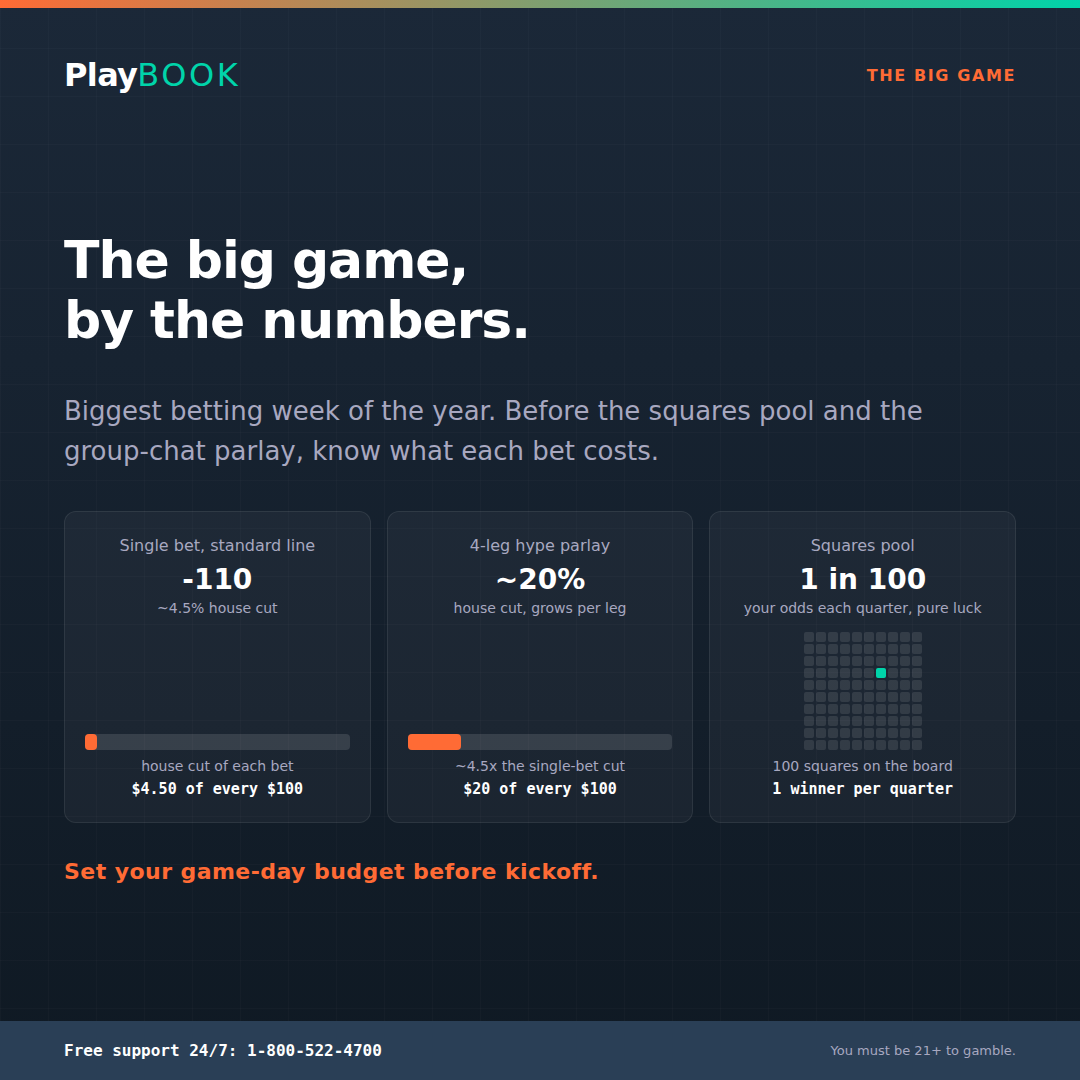
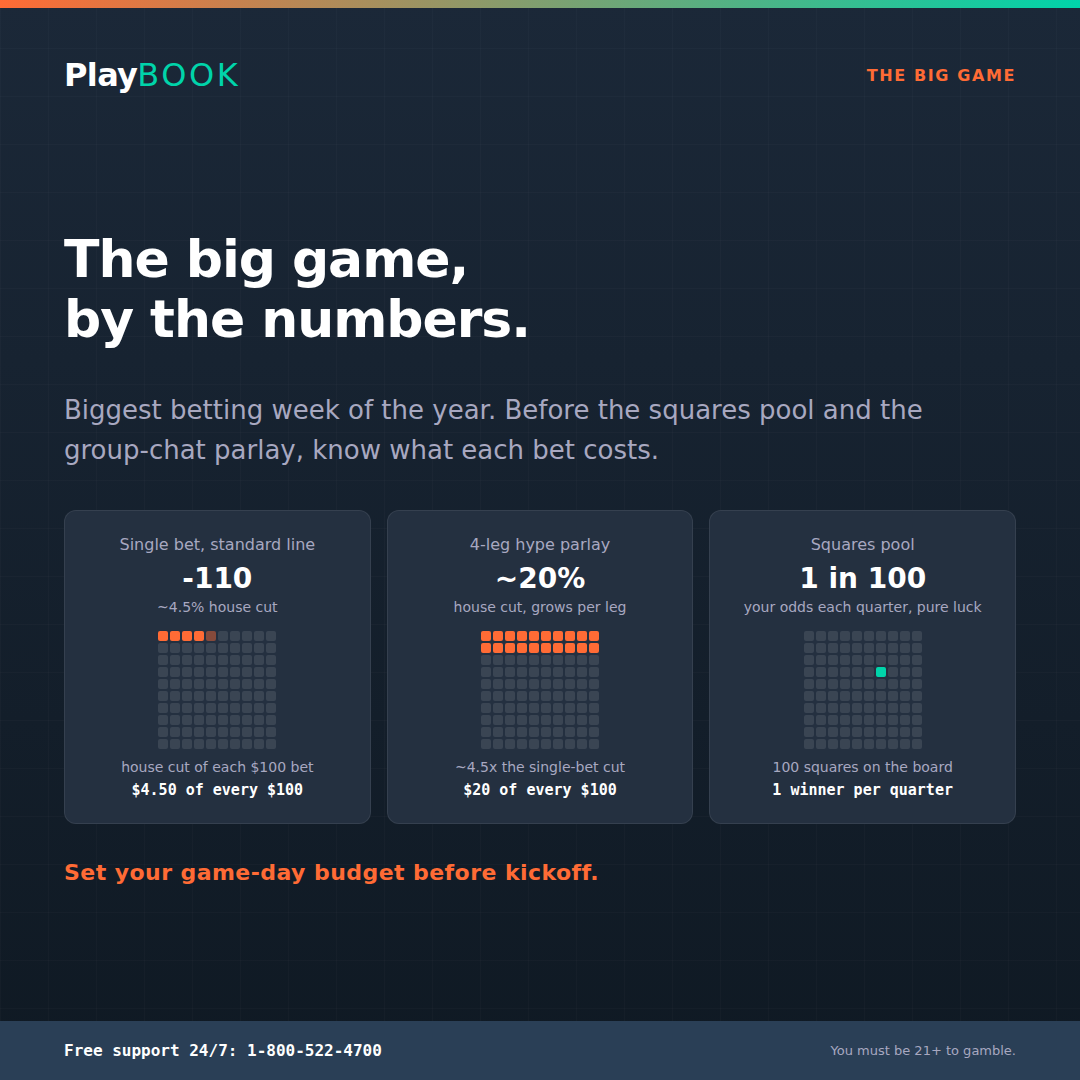
Apply loop-8 fixes: unified grid metaphor on big-game tiles
- card-17a: the two house-cut bars replaced with the same 10x10 grid
  used by the squares tile (a $100 bet = 100 squares: 4.5 orange, 20
  orange, 1 teal winner) - equalizes tile density and makes the
  three-way comparison instant; half-cut square encodes the $0.50
- card-17a / card-18a: stat tiles now use the opaque panel surface so
  the background texture no longer shows through
- story-16c: compliance text centered in the visible strip of the
  footer band above the story-UI safe zone

https://claude.ai/code/session_0185SkMKwokbUUM3N32zgs77

diff --git a/collateral/render/card-17a-big-game.html b/collateral/render/card-17a-big-game.html
@@ -25,18 +25,19 @@
   .explanation { font-family: var(--pb-font-body); font-size: calc(26px * var(--pb-template-text-scale, 1)); line-height: 1.55; color: var(--pb-color-neutral-300); margin-bottom: 32px; }
   .emphasis { font-family: var(--pb-font-heading); font-size: calc(22px * var(--pb-template-text-scale, 1)); font-weight: 700; color: var(--pb-color-accent); letter-spacing: 0.02em; margin-top: 36px; }
   .vig-strip { margin-top: 8px; display: flex; gap: 16px; }
-  .vig-card { flex: 1; background: rgba(255,255,255,0.04); border: 1px solid rgba(255,255,255,0.08); border-radius: 12px; padding: 24px 20px; text-align: center; display: flex; flex-direction: column; }
+  .vig-card { flex: 1; background: linear-gradient(rgba(255,255,255,0.04), rgba(255,255,255,0.04)), var(--pb-color-primary); border: 1px solid rgba(255,255,255,0.08); border-radius: 12px; padding: 24px 20px; text-align: center; display: flex; flex-direction: column; }
   .vig-label { font-family: var(--pb-font-body); font-size: calc(16px * var(--pb-template-text-scale, 1)); color: var(--pb-color-neutral-300); margin-bottom: 8px; }
   .vig-value { font-family: var(--pb-font-heading); font-size: calc(28px * var(--pb-template-text-scale, 1)); font-weight: 800; color: var(--pb-color-white); }
   .vig-note { font-family: var(--pb-font-body); font-size: calc(14px * var(--pb-template-text-scale, 1)); color: var(--pb-color-neutral-300); margin-top: 4px; }
-  .cut-track { margin-top: auto; height: 16px; border-radius: 4px; background: rgba(255,255,255,0.12); overflow: hidden; }
   .vig-card > .vig-note { margin-bottom: 16px; }
-  .cut-fill { height: 100%; background: var(--pb-color-accent); border-radius: 0 4px 4px 0; }
-  .cut-caption { font-family: var(--pb-font-body); font-size: calc(14px * var(--pb-template-text-scale, 1)); color: var(--pb-color-neutral-300); margin-top: 8px; }
+  .cut-caption { font-family: var(--pb-font-body); font-size: calc(14px * var(--pb-template-text-scale, 1)); color: var(--pb-color-neutral-300); margin-top: 10px; }
   .cut-example { font-family: var(--pb-font-mono); font-weight: 600; font-size: calc(15px * var(--pb-template-text-scale, 1)); color: var(--pb-color-white); margin-top: 6px; }
+  /* Shared metaphor across all three tiles: 10x10 grid = $100 bet (or 100 squares on the board) */
   .squares-grid { margin: auto auto 0; display: grid; grid-template-columns: repeat(10, 10px); grid-auto-rows: 10px; gap: 2px; }
   .squares-grid span { background: rgba(255,255,255,0.10); border-radius: 2px; }
   .squares-grid span.win { background: var(--pb-color-secondary); }
+  .squares-grid span.cut { background: var(--pb-color-accent); }
+  .squares-grid span.cut-half { background: var(--pb-color-accent); opacity: 0.45; }
   .card-footer { background: var(--pb-color-primary-light); padding: 20px 64px; display: flex; align-items: center; justify-content: space-between; position: relative; z-index: 1; }
   .footer-helpline { font-family: var(--pb-font-mono); font-weight: 700; font-size: calc(16px * var(--pb-template-text-scale, 1)); color: var(--pb-color-white); }
   .footer-legal { font-size: calc(13px * var(--pb-template-text-scale, 1)); color: var(--pb-color-neutral-300); font-family: var(--pb-font-body); }
@@ -57,15 +58,37 @@
         <div class="vig-label">Single bet, standard line</div>
         <div class="vig-value">-110</div>
         <div class="vig-note">~4.5% house cut</div>
-        <div class="cut-track"><div class="cut-fill" style="width: 4.5%"></div></div>
-        <div class="cut-caption">house cut of each bet</div>
+        <div class="squares-grid">
+          <span class="cut"></span><span class="cut"></span><span class="cut"></span><span class="cut"></span><span class="cut-half"></span><span></span><span></span><span></span><span></span><span></span>
+          <span></span><span></span><span></span><span></span><span></span><span></span><span></span><span></span><span></span><span></span>
+          <span></span><span></span><span></span><span></span><span></span><span></span><span></span><span></span><span></span><span></span>
+          <span></span><span></span><span></span><span></span><span></span><span></span><span></span><span></span><span></span><span></span>
+          <span></span><span></span><span></span><span></span><span></span><span></span><span></span><span></span><span></span><span></span>
+          <span></span><span></span><span></span><span></span><span></span><span></span><span></span><span></span><span></span><span></span>
+          <span></span><span></span><span></span><span></span><span></span><span></span><span></span><span></span><span></span><span></span>
+          <span></span><span></span><span></span><span></span><span></span><span></span><span></span><span></span><span></span><span></span>
+          <span></span><span></span><span></span><span></span><span></span><span></span><span></span><span></span><span></span><span></span>
+          <span></span><span></span><span></span><span></span><span></span><span></span><span></span><span></span><span></span><span></span>
+        </div>
+        <div class="cut-caption">house cut of each $100 bet</div>
         <div class="cut-example">$4.50 of every $100</div>
       </div>
       <div class="vig-card">
         <div class="vig-label">4-leg hype parlay</div>
         <div class="vig-value">~20%</div>
         <div class="vig-note">house cut, grows per leg</div>
-        <div class="cut-track"><div class="cut-fill" style="width: 20%"></div></div>
+        <div class="squares-grid">
+          <span class="cut"></span><span class="cut"></span><span class="cut"></span><span class="cut"></span><span class="cut"></span><span class="cut"></span><span class="cut"></span><span class="cut"></span><span class="cut"></span><span class="cut"></span>
+          <span class="cut"></span><span class="cut"></span><span class="cut"></span><span class="cut"></span><span class="cut"></span><span class="cut"></span><span class="cut"></span><span class="cut"></span><span class="cut"></span><span class="cut"></span>
+          <span></span><span></span><span></span><span></span><span></span><span></span><span></span><span></span><span></span><span></span>
+          <span></span><span></span><span></span><span></span><span></span><span></span><span></span><span></span><span></span><span></span>
+          <span></span><span></span><span></span><span></span><span></span><span></span><span></span><span></span><span></span><span></span>
+          <span></span><span></span><span></span><span></span><span></span><span></span><span></span><span></span><span></span><span></span>
+          <span></span><span></span><span></span><span></span><span></span><span></span><span></span><span></span><span></span><span></span>
+          <span></span><span></span><span></span><span></span><span></span><span></span><span></span><span></span><span></span><span></span>
+          <span></span><span></span><span></span><span></span><span></span><span></span><span></span><span></span><span></span><span></span>
+          <span></span><span></span><span></span><span></span><span></span><span></span><span></span><span></span><span></span><span></span>
+        </div>
         <div class="cut-caption">~4.5x the single-bet cut</div>
         <div class="cut-example">$20 of every $100</div>
       </div>

diff --git a/collateral/render/card-18a-fresh-start.html b/collateral/render/card-18a-fresh-start.html
@@ -24,7 +24,7 @@
   .headline { font-family: var(--pb-font-heading); font-size: calc(44px * var(--pb-template-text-scale, 1)); font-weight: 800; line-height: 1.15; color: var(--pb-color-white); margin-bottom: 36px; letter-spacing: -0.02em; }
   .columns { display: flex; gap: 16px; }
   .col-tools { flex: 1; display: flex; flex-direction: column; gap: 16px; }
-  .odds-item { background: rgba(255,255,255,0.04); border: 1px solid rgba(255,255,255,0.08); border-radius: 16px; padding: 24px; flex: 1; display: flex; flex-direction: column; justify-content: space-between; }
+  .odds-item { background: linear-gradient(rgba(255,255,255,0.04), rgba(255,255,255,0.04)), var(--pb-color-primary); border: 1px solid rgba(255,255,255,0.08); border-radius: 16px; padding: 24px; flex: 1; display: flex; flex-direction: column; justify-content: space-between; }
   .odds-game { font-family: var(--pb-font-body); font-size: calc(18px * var(--pb-template-text-scale, 1)); color: var(--pb-color-neutral-300); margin-bottom: 8px; }
   .odds-edge { font-family: var(--pb-font-heading); font-size: calc(44px * var(--pb-template-text-scale, 1)); font-weight: 800; letter-spacing: -0.02em; }
   .odds-edge.teal { color: var(--pb-color-secondary); }

diff --git a/collateral/render/story-16c-online-myths.html b/collateral/render/story-16c-online-myths.html
@@ -38,7 +38,7 @@
   .diagram-block svg text { font-family: var(--pb-font-heading), 'Inter', sans-serif; }
   .diagram-caption { font-family: var(--pb-font-heading); font-size: calc(22px * var(--pb-template-text-scale, 1)); font-weight: 600; color: var(--pb-color-neutral-300); text-align: center; margin-top: 24px; }
   .story-cta { display: block; width: 100%; padding: 28px; background: var(--pb-color-secondary); color: var(--pb-color-primary); font-family: var(--pb-font-heading); font-weight: 700; font-size: calc(24px * var(--pb-template-text-scale, 1)); text-align: center; border-radius: 16px; text-decoration: none; letter-spacing: 0.02em; }
-  .story-footer { background: var(--pb-color-primary-light); padding: 24px 48px 250px; text-align: center; position: relative; z-index: 1; }
+  .story-footer { background: var(--pb-color-primary-light); padding: 14px 48px 250px; text-align: center; position: relative; z-index: 1; }
   .footer-helpline { display: block; font-family: var(--pb-font-mono); font-weight: 700; font-size: calc(16px * var(--pb-template-text-scale, 1)); color: var(--pb-color-white); margin-bottom: 6px; }
   .footer-legal { display: block; font-size: calc(13px * var(--pb-template-text-scale, 1)); color: var(--pb-color-neutral-300); font-family: var(--pb-font-body); }
 </style>